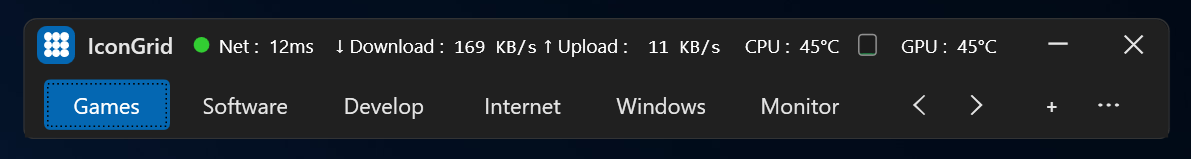
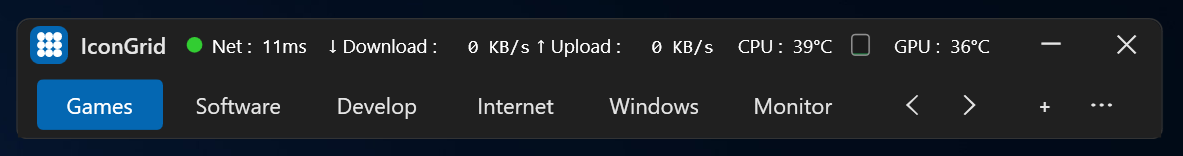
docs: add collapsed UI screenshots and update README documentation

diff --git a/README.md b/README.md
@@ -20,7 +20,9 @@ IconGrid is a Windows launcher and desktop overlay built with WPF and MVVM. It c
 
 ![IconGrid Screenshot](Assets/git-img/IconGrid.png)
 
-## IconGrid collapsed state
+## IconGrid collapsed state Toggle UI View
+
+IconGrid features a clean and simple way to toggle between full and collapsed views. If a category is selected (for example, Games), clicking it once will hide the icon area, collapsing the UI to only show the top bar and system monitors. Clicking the category again will smoothly slide the icon area back down into full view.
 ![IconGrid collapsed state Screenshot](Assets/git-img/IconGrid-collapsed.png)
 
 ### Settings window